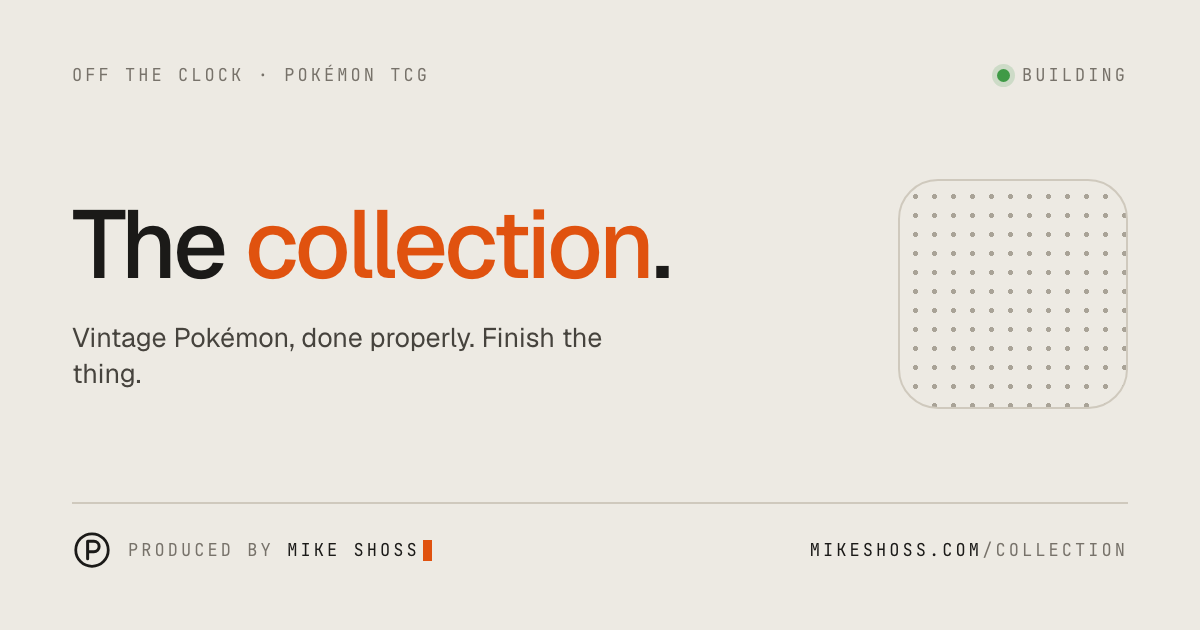
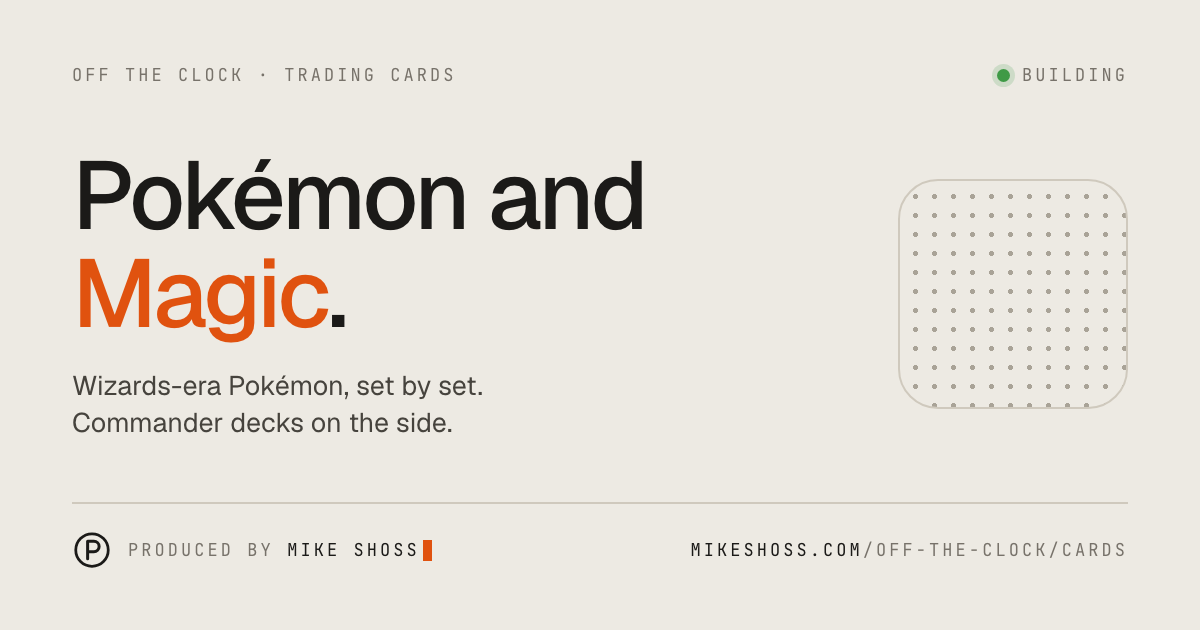
Off the clock: a page per interest, linked from home and Experience
- /off-the-clock/ lists the interests; each has its own page with status,
  summary and keywords. Radio and homelab show their machine-room entries.
- Pokémon and Magic share one cards page with two sections. /collection
  301s to /off-the-clock/cards/ (old page moved to the Trash).
- Home 'Off the clock' items are links set as plain text; the Outside
  work cards on Experience link through.
- Interests gain slug, summary and status (also in the API and llms.txt).

Claude-Session: https://claude.ai/code/session_01PXLdws1ZUYVP4QoPYJzYg7

diff --git a/src/data/content.ts b/src/data/content.ts
@@ -1426,18 +1426,32 @@ export interface Organization {
 
 const organizationsData: Organization[] = [];
 
+/**
+ * Off the clock. Each interest has its own page at /off-the-clock/<slug>/.
+ * `summary` is one line in Mike's voice; keep it to what is true today.
+ */
 export interface Interest {
+  slug: string;
   name: string;
+  summary: string;
+  /** The word beside the green light on its page: what is happening now. */
+  status: string;
   keywords?: string[];
 }
 
 export const interests: Interest[] = [
   {
+    slug: "bicycles",
     name: "Vintage Canadian steel bicycles",
+    summary: "Old Canadian steel frames, restored and back on the road.",
+    status: "Restoring",
     keywords: ["Restoration", "Framebuilding", "Cycling"],
   },
   {
+    slug: "amateur-radio",
     name: "Amateur radio",
+    summary: "A receiver tracking the aircraft overhead, a LoRa mesh node and APRS infrastructure. Software that watches the world.",
+    status: "On air",
     keywords: [
       "Meshtastic",
       "LoRa mesh",
@@ -1447,15 +1461,17 @@ export const interests: Interest[] = [
     ],
   },
   {
-    name: "Pokémon cards",
-    keywords: ["Wizards-era sets", "Set completion", "Graded slabs"],
+    slug: "cards",
+    name: "Pokémon and Magic cards",
+    summary: "Vintage Pokémon, done properly: Wizards of the Coast-era sets, one card at a time, until the binder is full. And Commander decks, because building the deck is the fun part.",
+    status: "Collecting",
+    keywords: ["Wizards-era Pokémon", "Set completion", "Graded slabs", "Magic: The Gathering", "Commander"],
   },
   {
-    name: "Magic: The Gathering",
-    keywords: ["Commander", "Deckbuilding"],
-  },
-  {
+    slug: "homelab",
     name: "Homelab",
+    summary: "A Mac mini runs dozens of self-hosted services, with monitoring, phone alerts and a staging copy of every app. Local models on the machine next to it.",
+    status: "Running",
     keywords: [
       "Self-hosted infrastructure",
       "Local-first AI",
@@ -1497,7 +1513,7 @@ export const causes: Cause[] = [
 ];
 
 /* ------------------------------------------------------------------------- *
- * The collection: Pokémon TCG sets and graded slabs, shown on /collection.
+ * The collection: Pokémon TCG sets and graded slabs, shown on /off-the-clock/cards/.
  *
  * Completion only — deliberately no values, prices or cert numbers. A list of
  * what a collector owns, next to their home town, is a burglary listing.

diff --git a/src/pages/llms.txt.ts b/src/pages/llms.txt.ts
@@ -147,13 +147,13 @@ ${list(causes.map((c) => `${c.name}: ${c.description ?? ""}${c.donate ? ` Donate
 ${list(
   interests.map((interest) =>
     interest.keywords?.length
-      ? `${interest.name}: ${interest.keywords.join(", ")}`
-      : interest.name,
+      ? `${interest.name}: ${interest.keywords.join(", ")} (${site.url}/off-the-clock/${interest.slug}/)`
+      : `${interest.name} (${site.url}/off-the-clock/${interest.slug}/)`,
   ),
 )}
 
 ## Card collection
-Vintage Pokémon TCG, Wizards of the Coast era. Completion only: ${site.url}/collection/
+Vintage Pokémon TCG, Wizards of the Coast era, and Magic Commander decks. Completion only: ${site.url}/off-the-clock/cards/
 ${list(cardSets.map((s) => `${s.name} (${s.year}): ${s.owned === undefined ? "being counted" : `${s.owned} of ${s.total}`}`))}
 Magic: The Gathering: ${magic.decks} ${magic.format} decks.
 
